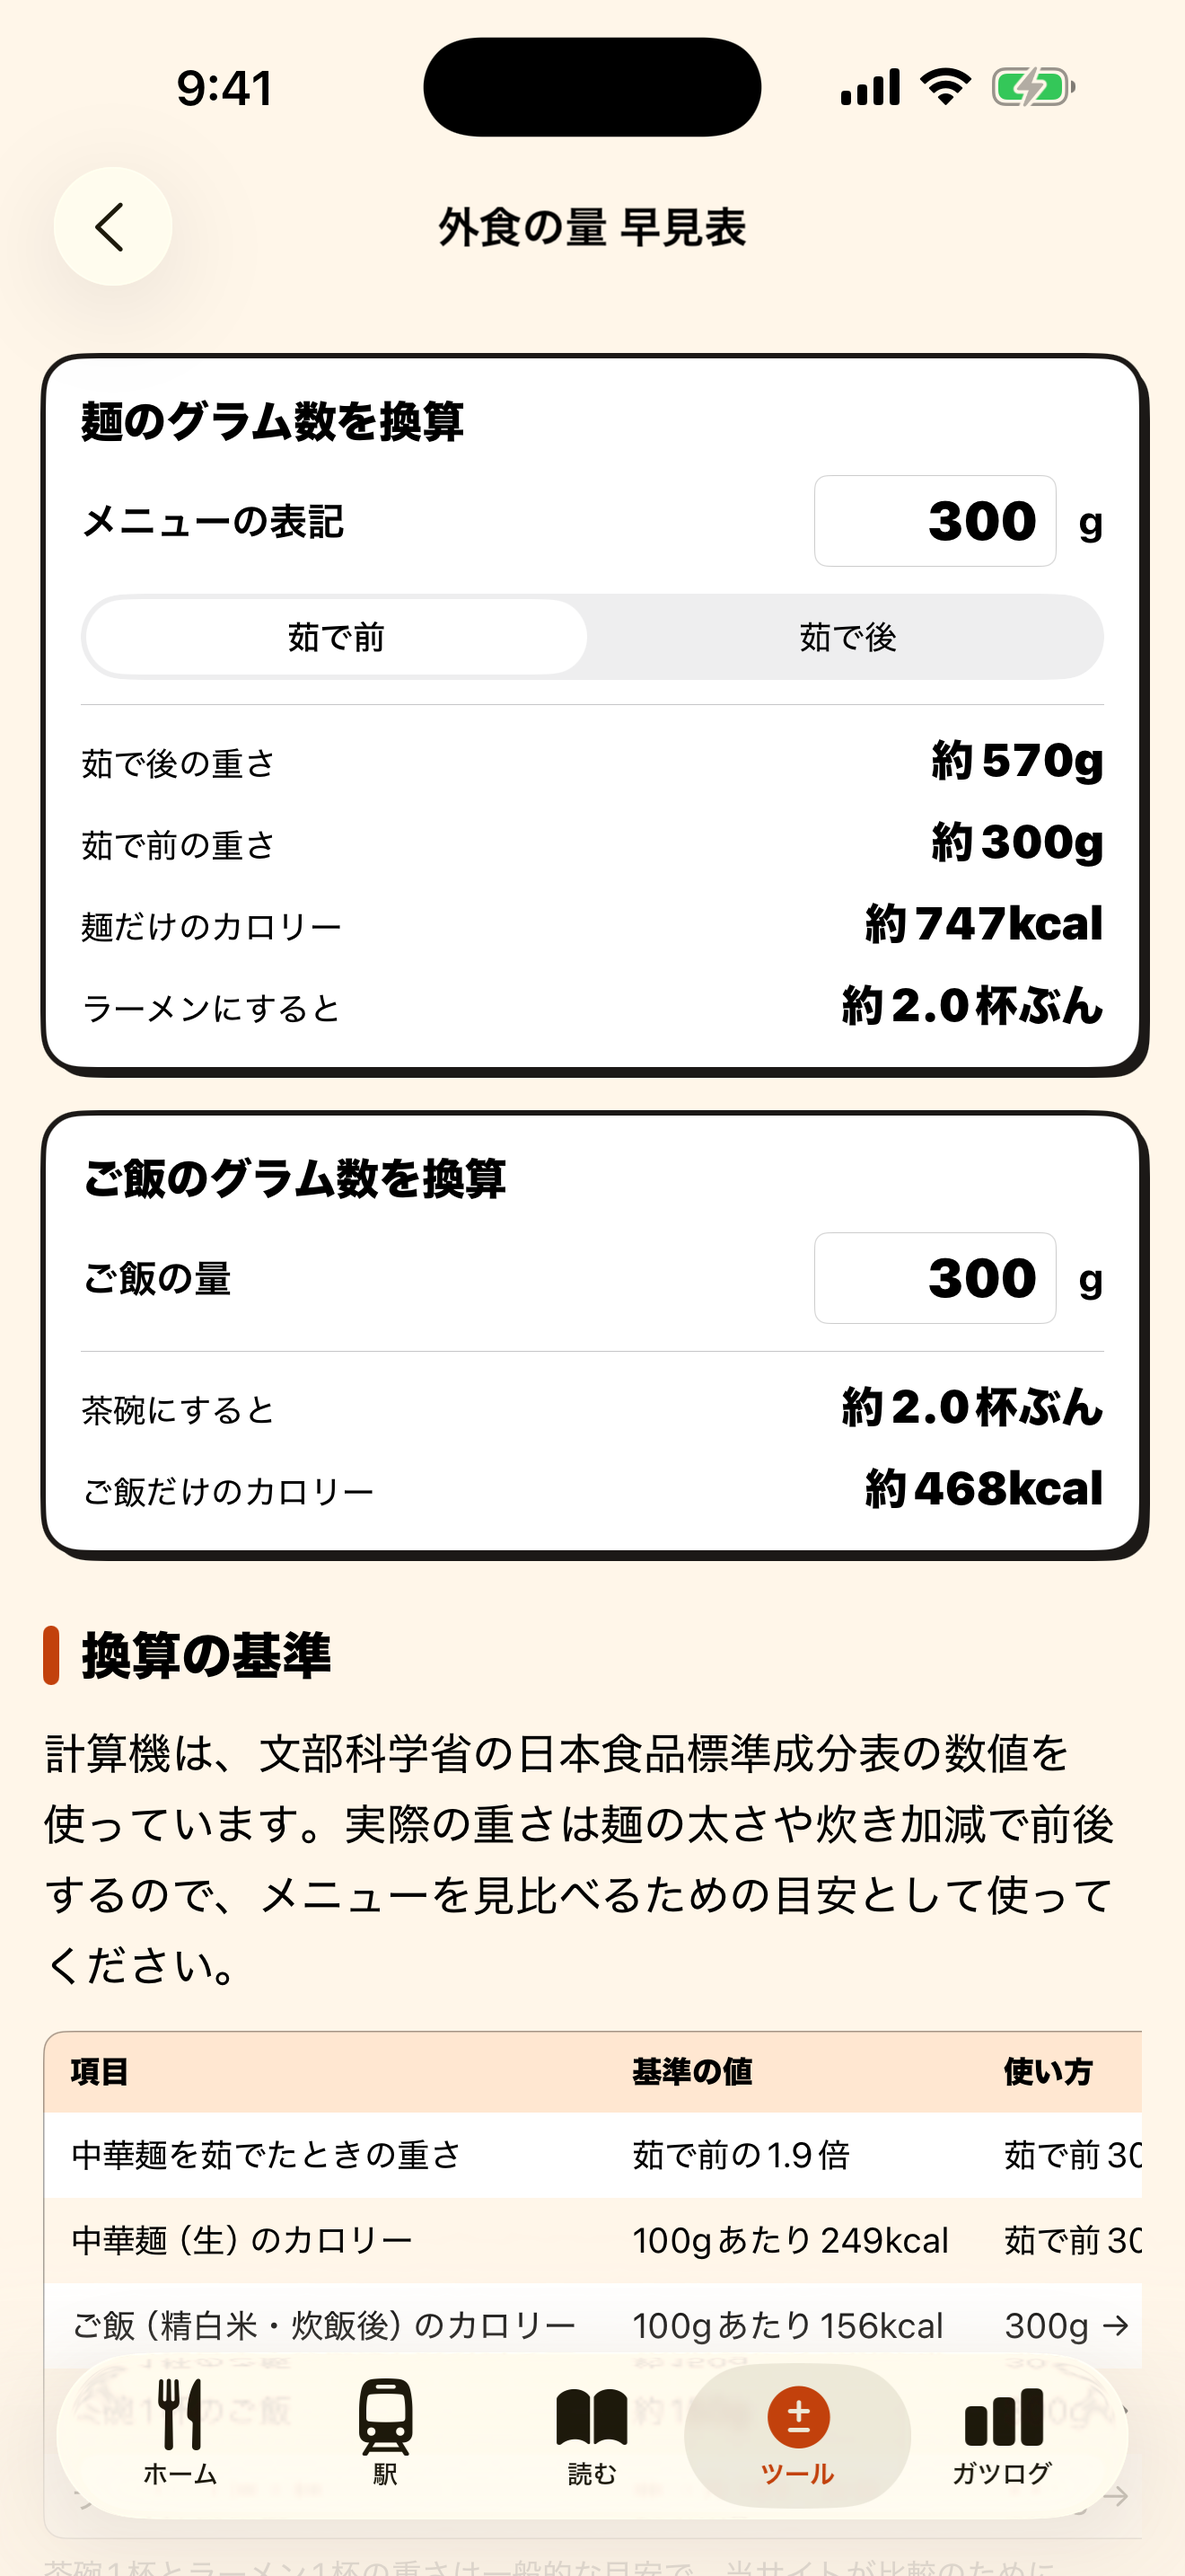
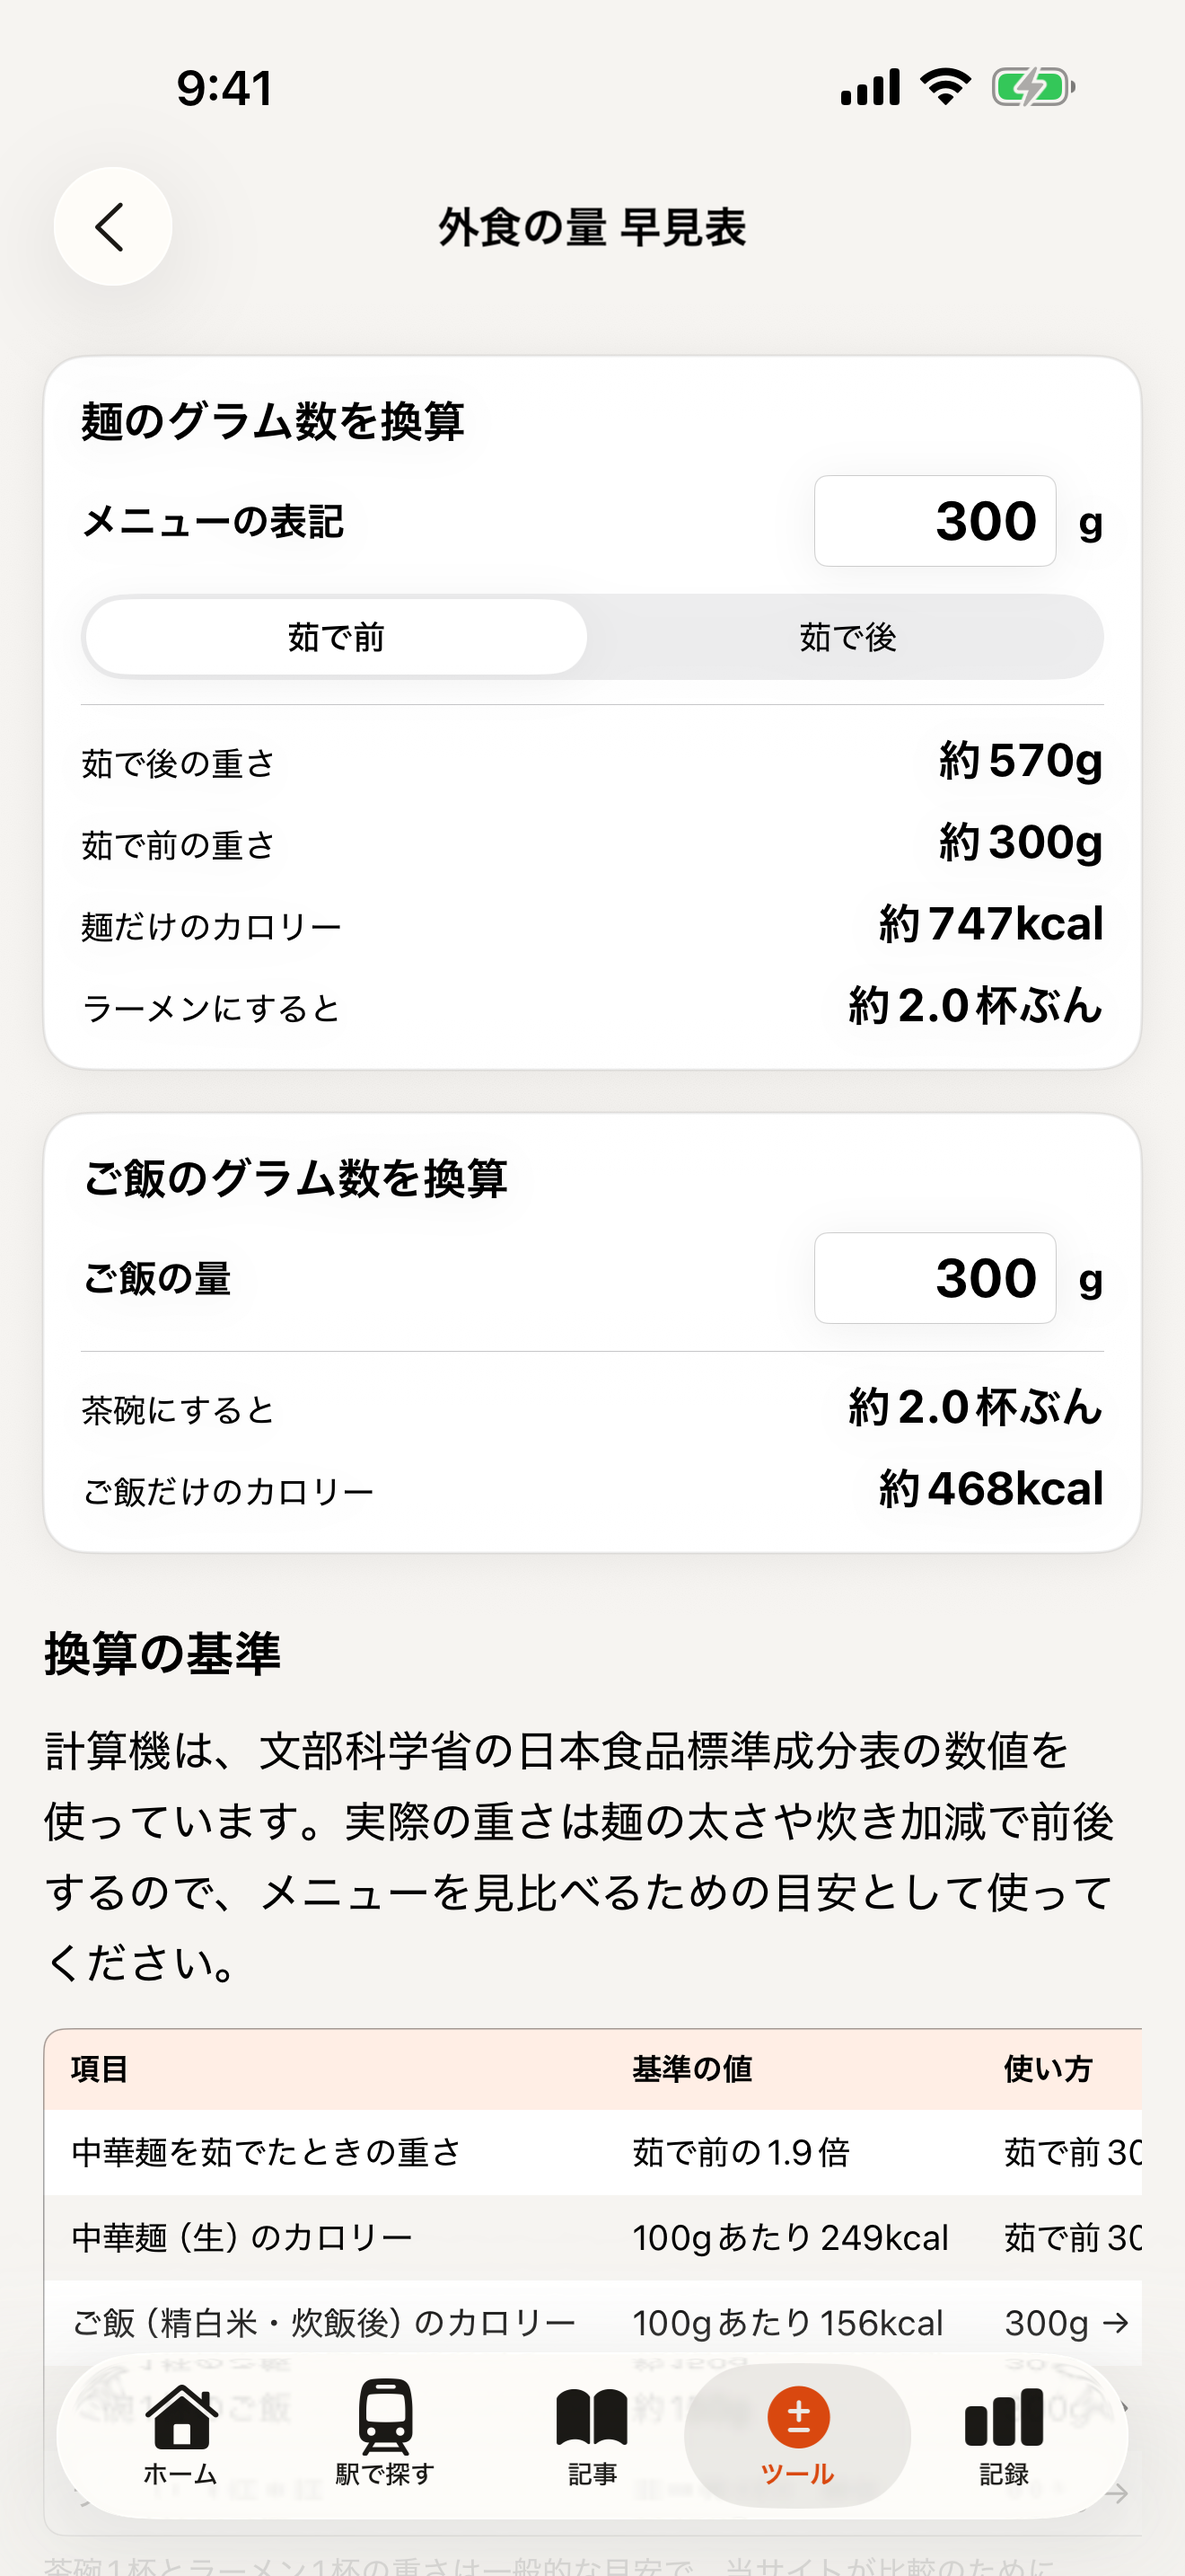
GatsuGatsu 1.1: ストアのスクショを新デザインに差し替え、1.1 の審査メモを残す
- スクショ 6 枚（ホーム／駅検索／記事のない駅／量の早見表／実食レポート／記録）を新しい配色で作り直す
- 素の画面は UI テスト StoreShots（iPhone 17 Pro Max・広告なし・デモの記録）で撮り、generate.py で見出しを付けて 6.9 / 6.3 インチを書き出す
- 撮影用の起動引数 -push japan:駅名 と -homeQuery を足す
- Store/ReviewNotes-1.1.md: 1.1 (6) の審査メモ

diff --git a/Apps/GatsuGatsu/GatsuGatsu/UITests/StoreShots.swift b/Apps/GatsuGatsu/GatsuGatsu/UITests/StoreShots.swift
@@ -1,0 +1,27 @@
+import XCTest
+
+/// App Store 用の素のスクショ（広告なし・記録はデモ）。iPhone 17 Pro Max（1320x2868）で撮る。
+final class StoreShots: XCTestCase {
+    private let shots: [(String, [String])] = [
+        ("home", []),
+        ("search", ["-homeQuery", "名古屋"]),
+        ("japan", ["-tab", "stations", "-push", "japan:博多"]),
+        ("quantity", ["-tab", "tools", "-push", "tool:quantity"]),
+        ("report", ["-tab", "read", "-push", "report:shibuya-dogenzaka-mammoth"]),
+        ("log", ["-tab", "log"]),
+    ]
+
+    func testShots() throws {
+        for (name, args) in shots {
+            let app = XCUIApplication()
+            app.launchArguments = ["-hideAds", "YES", "-demoLog", "YES"] + args
+            app.launch()
+            sleep(3)
+            let a = XCTAttachment(screenshot: app.screenshot())
+            a.name = "shot-\(name)"
+            a.lifetime = .keepAlways
+            add(a)
+            app.terminate()
+        }
+    }
+}

diff --git a/Apps/GatsuGatsu/GatsuGatsu/Sources/Views/Navigation.swift b/Apps/GatsuGatsu/GatsuGatsu/Sources/Views/Navigation.swift
@@ -120,7 +120,7 @@ final class Navigator {
         Binding(get: { self.paths[tab] ?? [] }, set: { self.paths[tab] = $0 })
     }
 
-    /// 撮影と動作確認用の起動引数（-tab log / -push guide:gohan-gram）。
+    /// 撮影と動作確認用の起動引数（-tab log / -push guide:gohan-gram / -push japan:博多 / -homeQuery 名古屋）。
     func applyLaunchArguments() {
         let defaults = UserDefaults.standard
         if let raw = defaults.string(forKey: "tab"), let tab = AppTab(rawValue: raw) { self.tab = tab }
@@ -132,6 +132,7 @@ final class Navigator {
         case "report": .report(parts[1])
         case "station": .station(parts[1])
         case "tool": ToolKind(rawValue: parts[1]).map(Route.tool)
+        case "japan": JapanStations.shared.all.first { $0.name == parts[1] }.map { Route.japanStation($0.id) }
         case "screen": parts[1] == "settings" ? .settings : (parts[1] == "month" ? .monthReport : .search)
         default: nil
         }

diff --git a/Apps/GatsuGatsu/GatsuGatsu/Sources/Views/HomeScreen.swift b/Apps/GatsuGatsu/GatsuGatsu/Sources/Views/HomeScreen.swift
@@ -28,6 +28,10 @@ struct HomeScreen: View {
             .padding(16)
         }
         .scrollDismissesKeyboard(.immediately)
+        .onAppear {
+            // 撮影用（-homeQuery 名古屋）。
+            if query.isEmpty, let preset = UserDefaults.standard.string(forKey: "homeQuery") { query = preset }
+        }
         .paperBackground()
         .navigationTitle("ガツガツグルメ")
         .navigationBarTitleDisplayMode(.inline)

diff --git a/Apps/GatsuGatsu/Store/screenshots/generate.py b/Apps/GatsuGatsu/Store/screenshots/generate.py
@@ -1,5 +1,6 @@
 #!/usr/bin/env python3
-"""App Store 用スクショ（6.9インチ 1320x2868）を作る。src/ の素のスクショに見出しを付け、Chrome のヘッドレスで書き出す。"""
+"""App Store 用スクショ（6.9インチ 1320x2868）を作る。src/ の素のスクショに見出しを付け、Chrome のヘッドレスで書き出す。
+6.3インチ（1206x2622）は out-6.3/ に縮小して書き出す。src/ は UI テスト StoreShots（iPhone 17 Pro Max・-hideAds -demoLog）で撮る。"""
 import pathlib
 import subprocess
 
@@ -8,32 +9,41 @@ SRC, OUT = ROOT / "src", ROOT / "out"
 CHROME = "/Applications/Google Chrome.app/Contents/MacOS/Google Chrome"
 W, H = 1320, 2868
 
+# 1.1 の新デザイン（白基調＋朱色）に合わせた見た目。朱色の背景は白い文字、薄い背景は黒い文字。
+ACCENT, SOFT = "#D9480F", "#FFEEE5"
 SLIDES = [
-    ("01_quantity", "quantity.png", "#FFC53D", "大盛りって<br>何グラム？", "麺もご飯も、量を数字で換算"),
-    ("02_report", "report.png", "#FFE7D1", "自分で食べた<br>店の記録", "写真と注文、支払った金額まで"),
-    ("03_log", "log.png", "#FFC53D", "今月はご飯<br>何杯ぶん？", "公式値で記録するガツログ"),
-    ("04_queue", "queue.png", "#FFE7D1", "行列の前で<br>入店時刻を計算", "入店の5分前に通知"),
-    ("05_station", "station.png", "#FFC53D", "24駅の<br>がっつり飯ガイド", "東京・神奈川・埼玉・千葉"),
+    ("01_home", "home.png", ACCENT, "どの駅で<br>がっつり食べる？", "全国9,000駅から大盛りの店を探す"),
+    ("02_search", "search.png", SOFT, "全国の駅を<br>駅名ですぐ検索", "同じ名前の駅は路線で見分けられる"),
+    ("03_station", "japan.png", ACCENT, "駅のまわりの<br>デカ盛りを地図で", "大盛り無料・食べ放題・二郎系など"),
+    ("04_quantity", "quantity.png", SOFT, "大盛りって<br>何グラム？", "麺もご飯も、量を数字で換算"),
+    ("05_report", "report.png", ACCENT, "自分で食べた<br>店の記録", "写真と注文、量と味まで"),
+    ("06_log", "log.png", SOFT, "今日はご飯<br>何杯ぶん？", "チェーンの公式値で記録するガツログ"),
 ]
 
 PAGE = """<!doctype html><html lang="ja"><head><meta charset="utf-8"><style>
 *{{margin:0;padding:0;box-sizing:border-box}}
 html,body{{width:{W}px;height:{H}px;overflow:hidden}}
-body{{background:{bg};font-family:'Hiragino Sans','Hiragino Kaku Gothic ProN',sans-serif;color:#1C1917;position:relative}}
-.copy{{position:absolute;top:130px;left:0;right:0;text-align:center}}
-h1{{font-size:128px;font-weight:900;line-height:1.24;letter-spacing:.01em}}
-p{{display:inline-block;margin-top:44px;font-size:52px;font-weight:800;background:#fff;border:7px solid #1C1917;border-radius:999px;padding:18px 48px;box-shadow:7px 7px 0 #1C1917}}
-.phone{{position:absolute;top:720px;left:50%;transform:translateX(-50%);width:1040px;padding:20px;background:#1C1917;border-radius:136px;box-shadow:16px 16px 0 rgba(28,25,23,.9)}}
-.phone img{{display:block;width:100%;border-radius:118px}}
+body{{background:{bg};font-family:'Hiragino Sans','Hiragino Kaku Gothic ProN',sans-serif;color:{fg};position:relative}}
+.copy{{position:absolute;top:140px;left:0;right:0;text-align:center}}
+h1{{font-size:120px;font-weight:800;line-height:1.25;letter-spacing:.01em}}
+p{{display:inline-block;margin-top:48px;font-size:48px;font-weight:700;color:{pillFg};background:{pillBg};border-radius:999px;padding:20px 52px}}
+.phone{{position:absolute;top:720px;left:50%;transform:translateX(-50%);width:1040px;padding:18px;background:#1A1A1A;border-radius:136px;box-shadow:0 40px 80px rgba(0,0,0,.25)}}
+.phone img{{display:block;width:100%;border-radius:120px}}
 </style></head><body><div class="copy"><h1>{title}</h1><p>{sub}</p></div>
 <div class="phone"><img src="{shot}"></div></body></html>"""
 
 OUT.mkdir(exist_ok=True)
 for name, shot, bg, title, sub in SLIDES:
     page = OUT / f"{name}.html"
-    page.write_text(PAGE.format(W=W, H=H, bg=bg, title=title, sub=sub, shot=(SRC / shot).as_uri()), encoding="utf-8")
+    dark = bg == ACCENT
+    page.write_text(PAGE.format(W=W, H=H, bg=bg, fg="#FFFFFF" if dark else "#1A1A1A",
+                                pillBg="#FFFFFF" if dark else ACCENT, pillFg=ACCENT if dark else "#FFFFFF",
+                                title=title, sub=sub, shot=(SRC / shot).as_uri()), encoding="utf-8")
     subprocess.run([CHROME, "--headless=new", "--disable-gpu", "--hide-scrollbars", "--force-device-scale-factor=1",
                     f"--window-size={W},{H}", "--allow-file-access-from-files",
                     f"--screenshot={OUT / (name + '.png')}", page.as_uri()], check=True, capture_output=True)
     page.unlink()
     print("wrote", name)
+    OUT63 = ROOT / "out-6.3"
+    OUT63.mkdir(exist_ok=True)
+    subprocess.run(["sips", "-z", "2622", "1206", str(OUT / (name + ".png")), "--out", str(OUT63 / (name + ".png"))], check=True, capture_output=True)

diff --git a/Apps/GatsuGatsu/Store/ReviewNotes-1.1.md b/Apps/GatsuGatsu/Store/ReviewNotes-1.1.md
@@ -1,0 +1,36 @@
+# 1.1 (6) の審査メモ（2026-11-06 11:10 提出・ASC に入れた文面）
+
+新機能の文は Listing.md の下書きから「★」を外したもの（★は ASC で無効な文字）。プロモーション用テキストも 1.1 で入れ直した。
+
+```
+What's new in 1.1:
+- Nationwide station search (about 9,000 stations), built from the Japanese government's open railway data (National Land Numerical Information, MLIT, CC BY 4.0; credited in the app). Stations with my own articles open the article as before. Other stations open a simple page that clearly says there is no article yet, with buttons that open Google Maps searches around the station and links to nearby stations that have articles. The app has no restaurant data of its own for these stations.
+- New colors and a clearer Home screen with the station search at the top.
+- Any station can be saved as a favorite.
+No accounts, login, user-generated content or paid content.
+
+Purpose and target audience
+GatsuGatsu Gourmet is the app version of gatsugatsu-gurume.com, a Japanese food guide that I operate myself. It is for people in Japan who want to eat a big, filling meal when eating out (large ramen, rice bowls, all-you-can-eat). It offers portion-size tables, official calorie figures from restaurant chains, station-by-station guides for 24 stations in Tokyo, Kanagawa, Saitama and Chiba, a nationwide station search, and my own first-hand restaurant reports with photos I took. Everything is bundled in the app, so it works without signal while standing in a queue. App-only features: a meal log (GatsuLog) that totals daily and weekly calories, and a queue-time estimate that sends a local notification 5 minutes before the expected seating time.
+
+How to access the main features
+No login, setup or sample files are needed. Use the five tabs at the bottom:
+- ホーム (Home): station search at the top, the three main tools, today's meal totals, first-hand reports and today's article.
+- 駅で探す (Stations): search any station in Japan; the star button saves it as a favorite.
+- 記事 (Articles): portion guides, columns and first-hand reports, with search.
+- ツール (Tools): portion converter, calorie and PFC calculator, queue-time estimate (tap 「入店の5分前に通知する」 to schedule the reminder), all-you-can-eat break-even, and bill splitter (result can be shared through the share sheet).
+- 記録 (GatsuLog): log a meal and see daily and weekly totals. The log is stored only on the device.
+A rewarded video ad is optional: in Settings it hides ads for 2 hours, and on the monthly summary it unlocks the summary for 24 hours. Logging and the tools never require watching an ad.
+
+External services
+- Google Mobile Ads SDK (AdMob) for banner, native, interstitial, app open and rewarded ads, and Google's User Messaging Platform for the consent and tracking explanation.
+- Apple's local notifications (UserNotifications) for the queue reminder.
+There is no server, no account system, no payment processor and no AI service. Links to maps or official chain websites open in Safari or the Maps app.
+
+Regional differences
+The app is distributed only in Japan and its content is in Japanese. It functions the same way for every user. The only difference is handled by Google's UMP SDK: the GDPR consent form appears only for users in the EEA and UK.
+
+Regulated industry / third-party material
+The app is not in a regulated industry. All articles and photos were written and taken by me as the operator of gatsugatsu-gurume.com. Calorie and portion figures for chains are factual values taken from each chain's official published nutrition information, with the source and the date checked shown under each figure. Restaurant and chain names are used only to identify the places described.
+
+The app shares no source files with my other apps. Ads are provided by Google AdMob, and there are no in-app purchases.
+```
